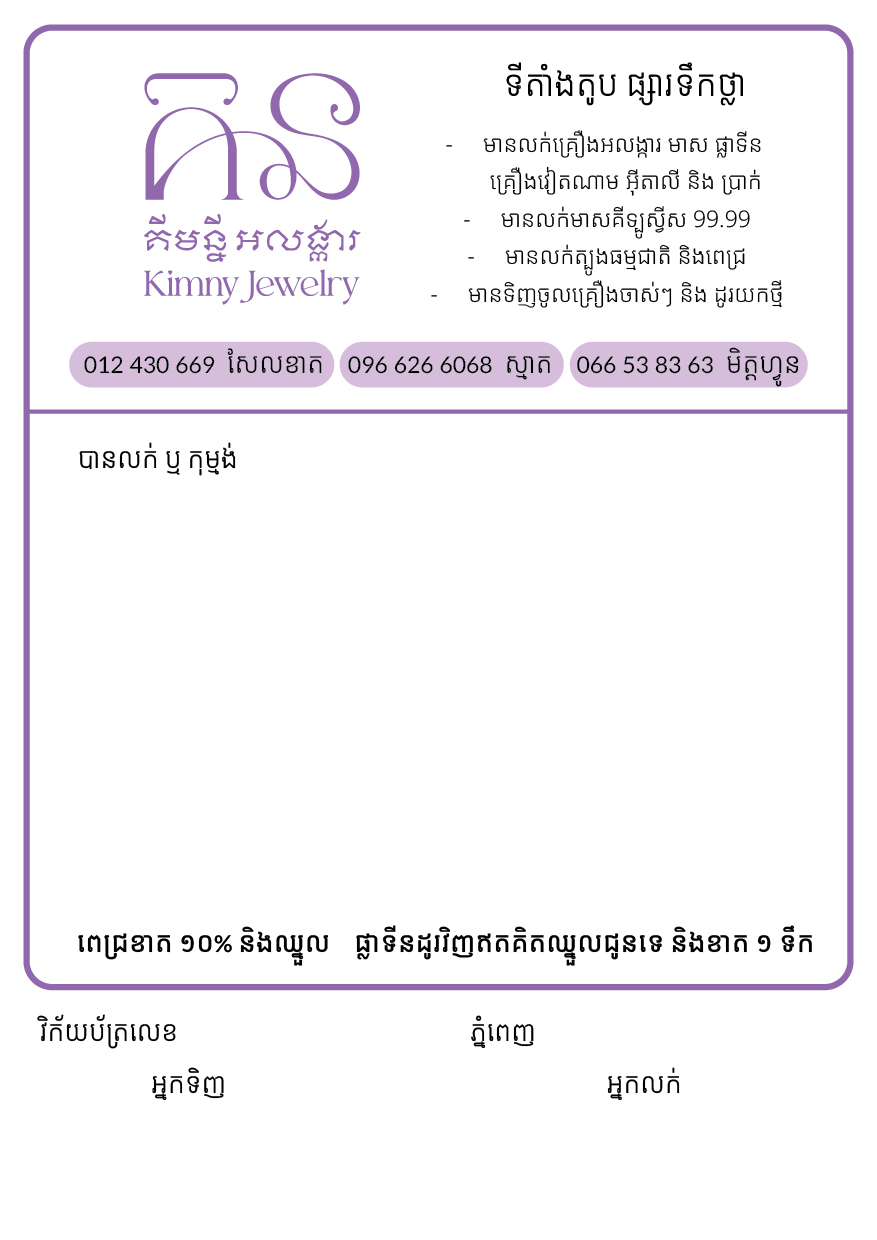
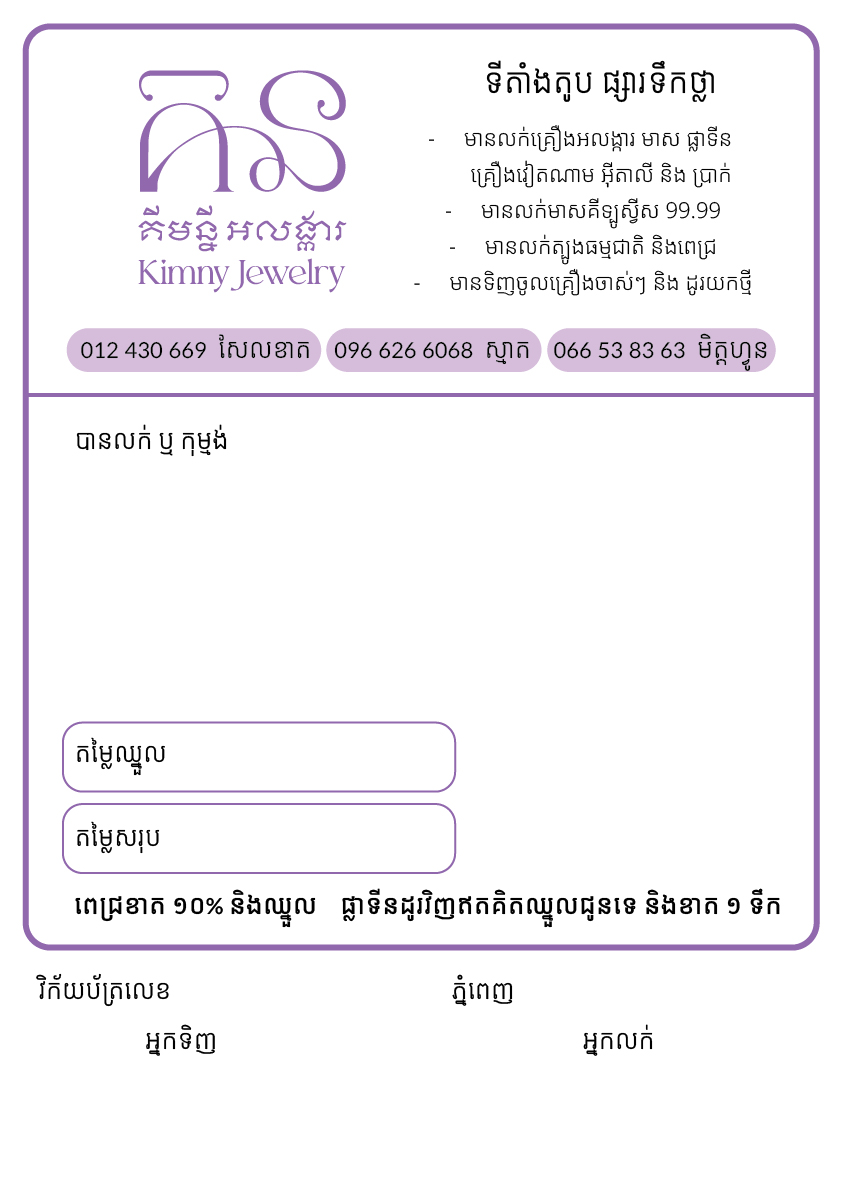
fix width

diff --git a/Kimny-invoice/single-invoice.html b/Kimny-invoice/single-invoice.html
@@ -160,6 +160,16 @@
             box-shadow: 0 4px 15px rgba(0,0,0,0.2);
             overflow: hidden;
             background-color: #fff;
+            transform-origin: top left;
+        }
+
+        /* Responsive Wrapper to prevent layout overlap on Mobile screens */    
+        .preview-scroll-wrapper {
+            width: 100%;
+            overflow-x: auto;
+            padding-bottom: 20px;
+            display: flex;
+            justify-content: flex-start;
         }
 
         #invoice-bg {
@@ -210,15 +220,32 @@
         /* Blue Description Box Area Map Boundaries */
         #pos-description-box {
             top: 82mm;
-            left: 8.5mm;
+            left: 12mm;
             width: 70.5mm;
             height: 98mm;
             overflow: hidden;
-            font-size: 16px;
+            font-size: 17px;
             font-weight: normal;
             line-height: 1.6;
             word-wrap: break-word;
             white-space: pre-wrap;
+        }
+
+        /* --- Labor (ឈ្នួល) & Total Layout Mapping Coordinates --- */
+        #pos-labor-box {
+            top: 130mm;       /* Positioned right beneath the description field box */
+            left: 35mm;         /* Adjusted line alignment value to your layout map */
+            width: 48mm;
+            text-align: left;
+            white-space: nowrap;
+        }
+
+        #pos-total-box {
+            top: 145mm;       /* Positioned perfectly beneath the labor box row */
+            left: 35mm;
+            width: 48mm;
+            text-align: left;
+            white-space: nowrap;
         }
 
         /* Red Image Container Frame Box Area Map Boundaries (4:3 Portrait) */
@@ -237,7 +264,7 @@
         #render-photo {
             width: 100%;
             height: 100%;
-            object-fit: cover; /* Fits to area ratios nicely */
+            object-fit: cover;
             display: none;
             border: 3px solid #9168ad;
             border-radius: 12px;
@@ -299,6 +326,17 @@
 
         <div class="meta-input-group">
             <div class="input-block">
+                <span class="label-badge">ឈ្នួល (Labor Fee)</span>
+                <input type="text" id="input-labor" placeholder="បញ្ជូលតម្លៃឈ្នួល...">
+            </div>
+            <div class="input-block">
+                <span class="label-badge">Total</span>
+                <input type="text" id="input-total" placeholder="បញ្ចូលតម្លៃសរុប...">
+            </div>
+        </div>
+
+        <div class="meta-input-group">
+            <div class="input-block">
                 <div class="file-controls">
                     <label class="btn-upload" for="upload-photo">📁 Choose From Library</label>
                     <input type="file" id="upload-photo" accept="image/*" hidden>
@@ -315,18 +353,23 @@
         </div>
     </div>
 
-    <div id="invoice-container">
-        <img id="invoice-bg" src="single-invoice.jpg" alt="Single Invoice Baseline Template">
+    <div class="preview-scroll-wrapper">
+        <div id="invoice-container">
+            <img id="invoice-bg" src="single-invoice.jpg" alt="Single Invoice Baseline Template">
 
-        <div id="invoice-content-layer">
-            <div id="pos-description-box" class="printable-text"></div>
-            
-            <div id="pos-image-frame">
-                <img id="render-photo" src="#" alt="Render Target View Source">
+            <div id="invoice-content-layer">
+                <div id="pos-description-box" class="printable-text"></div>
+                
+                <div id="pos-image-frame">
+                    <img id="render-photo" src="#" alt="Render Target View Source">
+                </div>
+
+                <div id="pos-labor-box" class="printable-text"></div>
+                <div id="pos-total-box" class="printable-text"></div>
+
+                <div id="pos-invoice-num" class="printable-text"></div>
+                <div id="pos-date" class="printable-text"></div>
             </div>
-
-            <div id="pos-invoice-num" class="printable-text"></div>
-            <div id="pos-date" class="printable-text"></div>
         </div>
     </div>
 
@@ -357,8 +400,47 @@
             document.getElementById('pos-date').innerText = document.getElementById('input-date').value;
             document.getElementById('pos-invoice-num').innerText = document.getElementById('input-id').value;
             document.getElementById('pos-description-box').textContent = document.getElementById('input-description').value;
+            
+            // Sync text content inside the new preview display boxes
+            document.getElementById('pos-labor-box').innerText = document.getElementById('input-labor').value;
+            document.getElementById('pos-total-box').innerText = document.getElementById('input-total').value;
+        }
+        
+        function applyMobileScaling() {
+            const container = document.getElementById('invoice-container');
+            const wrapper = document.querySelector('.preview-scroll-wrapper');
+            
+            if (!container || !wrapper) return;
+
+            // Get the current screen width of your iPhone / Browser window
+            const windowWidth = window.innerWidth - 40; // minus body padding
+            const containerWidth = container.offsetWidth; // This is the 148mm width in pixels
+
+            // If the screen is smaller than the 148mm canvas, scale it down!
+            if (windowWidth < containerWidth) {
+                const scaleFactor = windowWidth / containerWidth;
+                container.style.transform = `scale(${scaleFactor})`;
+                
+                // Fix the wrapper height so it doesn't leave massive blank space below the scaled container
+                wrapper.style.height = `${container.offsetHeight * scaleFactor}px`;
+            } else {
+                // Reset to normal on desktop screens
+                container.style.transform = 'none';
+                wrapper.style.height = 'auto';
+            }
         }
 
+        // Run scale calculation on load and whenever screen rotates
+        window.addEventListener('load', applyMobileScaling);
+        window.addEventListener('resize', applyMobileScaling);
+        
+        // Also fire it right after data syncing to ensure layout locks smoothly
+        const originalSync = syncInvoiceData;
+        syncInvoiceData = function() {
+            originalSync();
+            applyMobileScaling();
+        };
+        
         // Handle Image Stream Sources Safely
         function handleImageUpload(event) {
             const file = event.target.files[0];
@@ -377,6 +459,8 @@
         document.getElementById('input-date').addEventListener('input', syncInvoiceData);
         document.getElementById('input-id').addEventListener('input', syncInvoiceData);
         document.getElementById('input-description').addEventListener('input', syncInvoiceData);
+        document.getElementById('input-labor').addEventListener('input', syncInvoiceData);
+        document.getElementById('input-total').addEventListener('input', syncInvoiceData);
         document.getElementById('upload-photo').addEventListener('change', handleImageUpload);
         document.getElementById('capture-camera').addEventListener('change', handleImageUpload);
 
